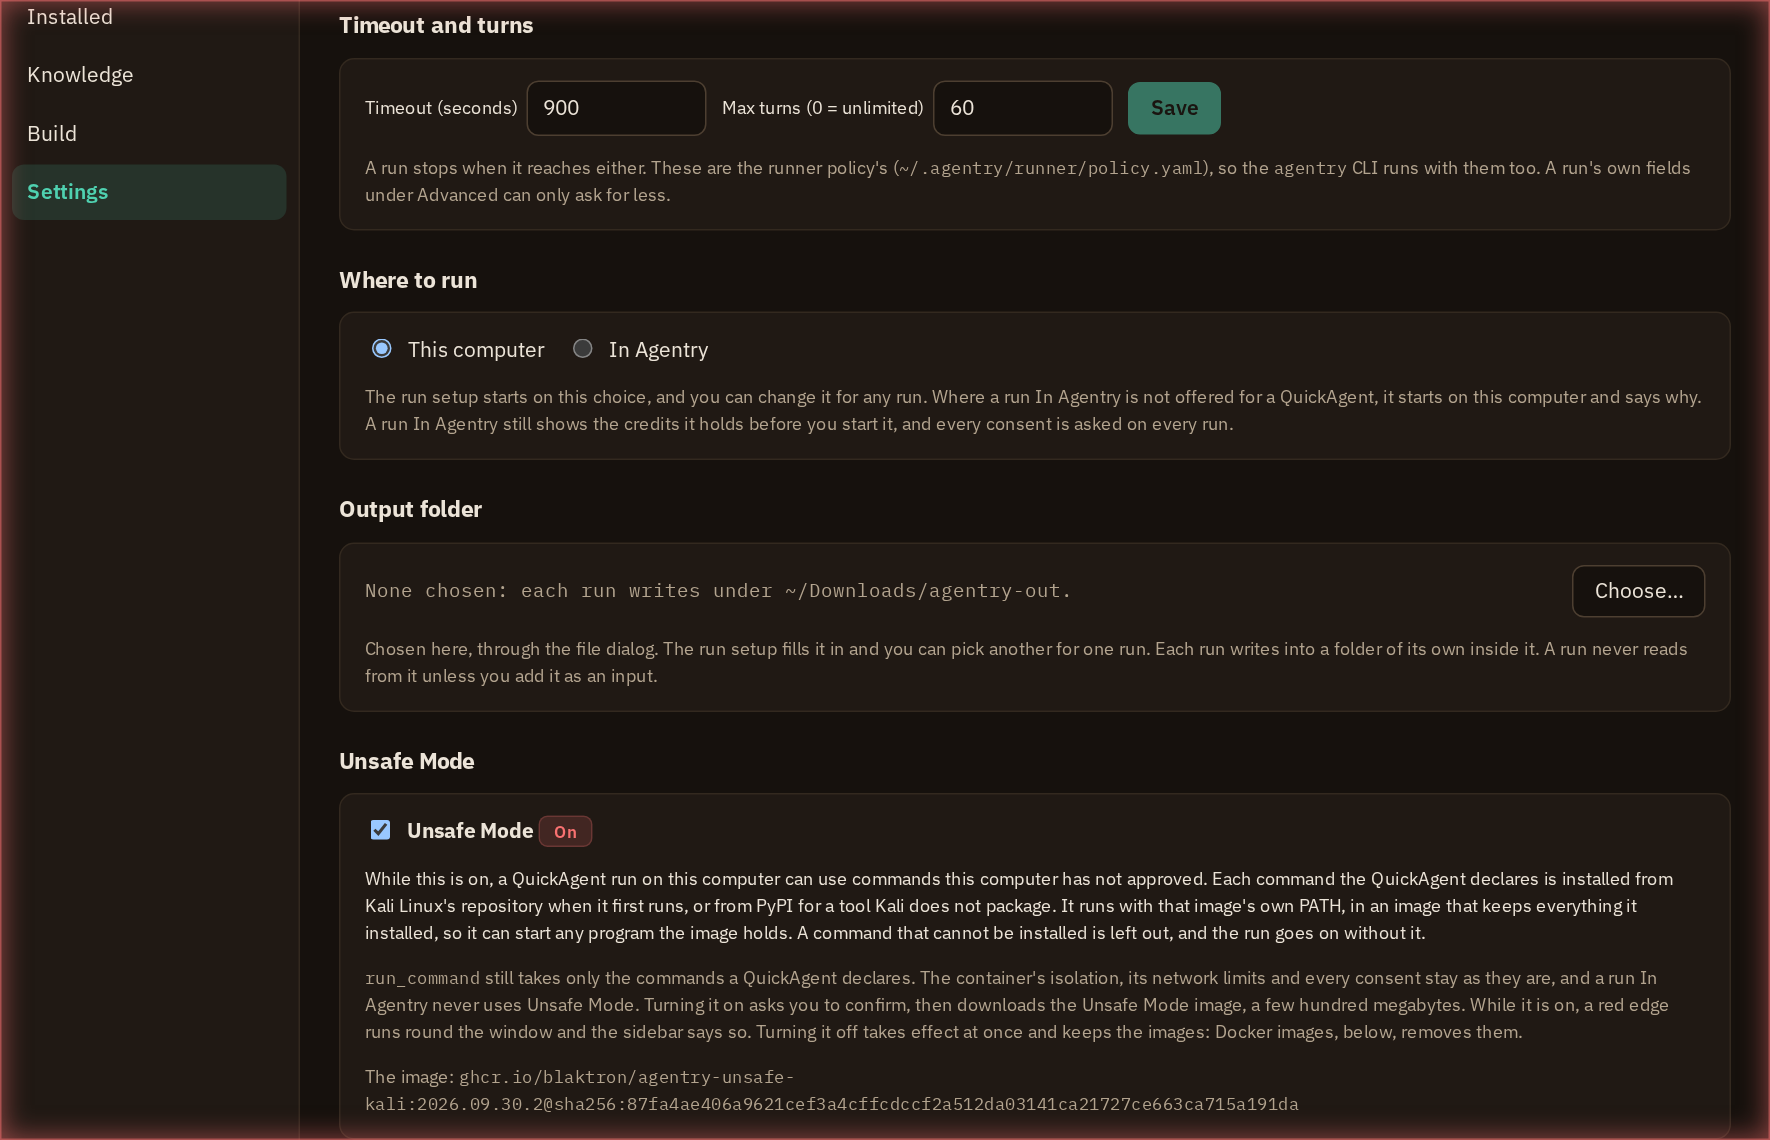
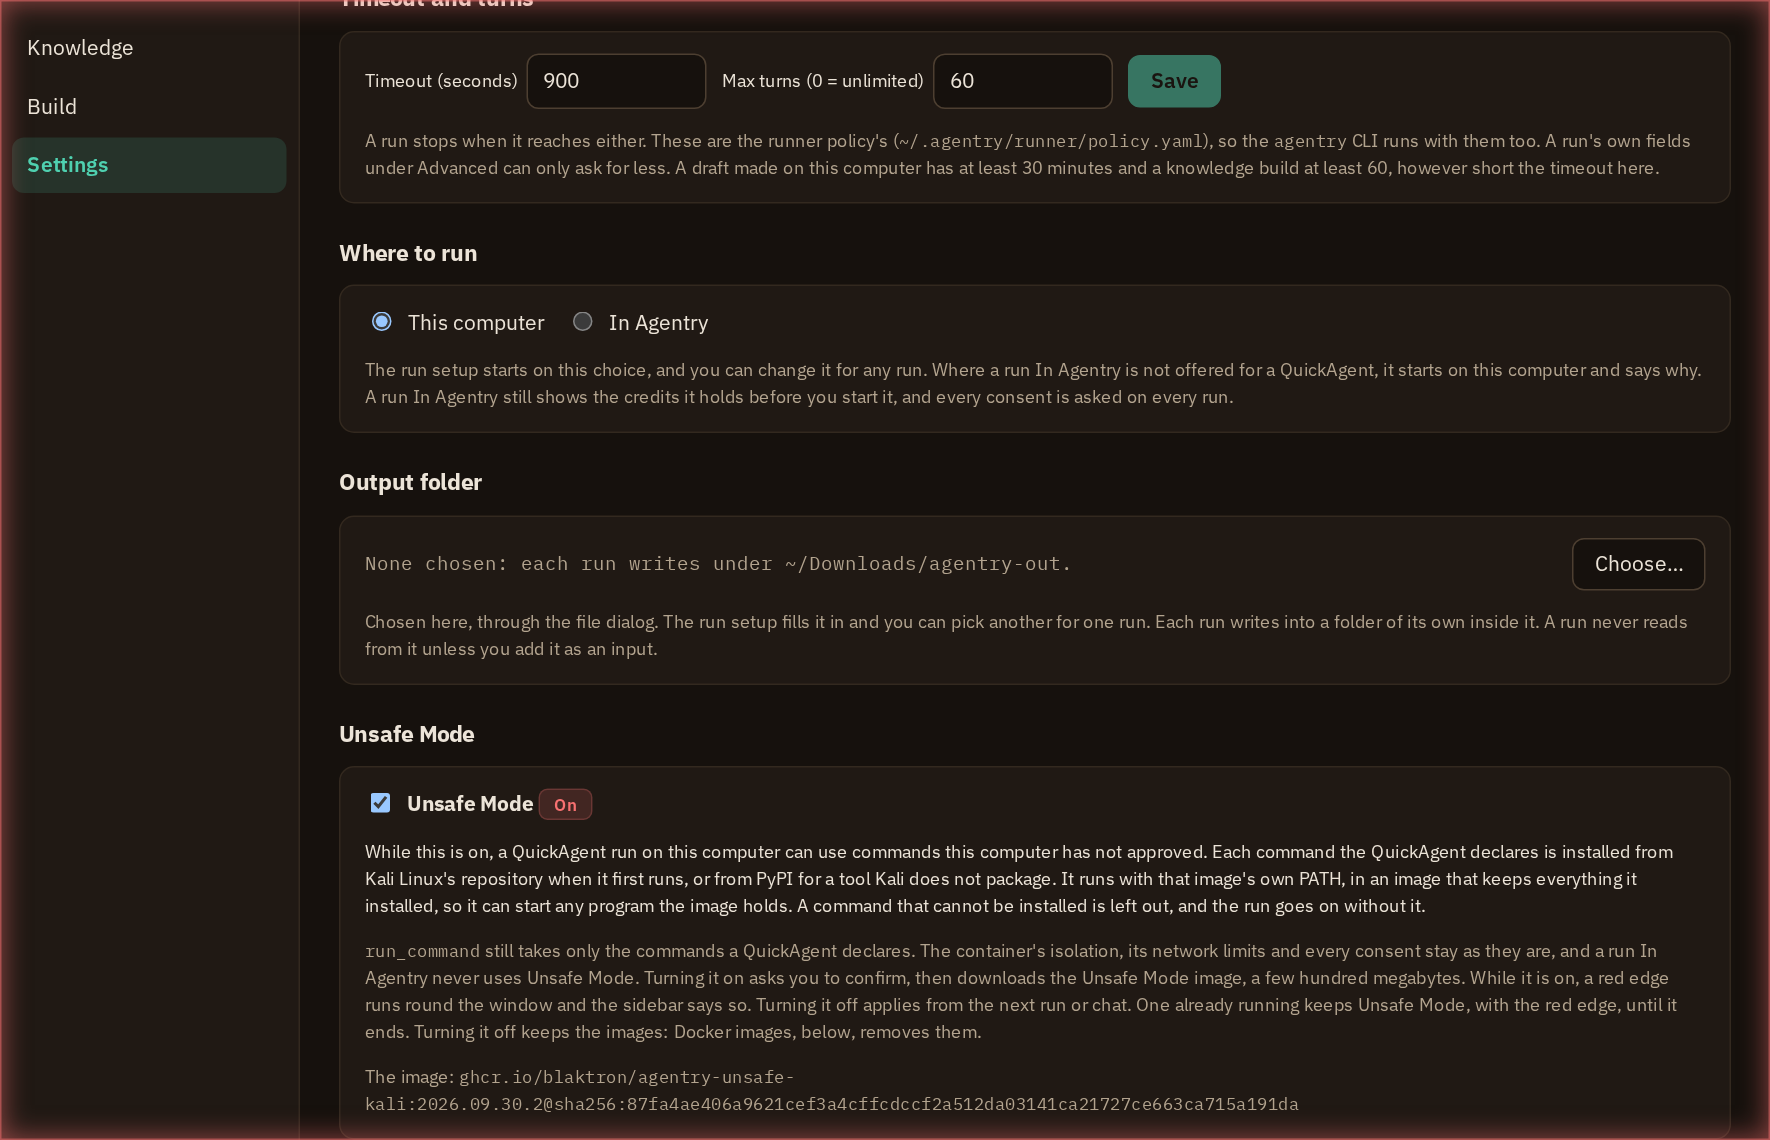
feat(unsafe): the red edge and the badge stay while a run or chat compiled in Unsafe Mode is live
Turning Unsafe Mode off took the red edge and the sidebar badge away at
once, but a run or chat reads the switch once, when it starts, and keeps
its Unsafe Mode exec image and PATH until it ends: a chat can be live for
hours after the window stopped saying so. The operator chose (2026-09-30,
the first of #479's three options) that the edge and the badge stay while
any run or chat compiled in Unsafe Mode is live, and go when it ends.

- internal/run: Request.UnsafeCompiled, called by prepare once the plan is
  known to be compiled in Unsafe Mode. A run the switch was on for whose
  plan Unsafe Mode did not change (no declared commands) never calls it.
- RunAgent and StartSession pass a hook that marks the live run unsafe and
  emits runner:unsafe-live true; endRun emits false when that run ends.
  RunAPI.UnsafeLive answers the same for the shell's slow poll.
- The shell draws the edge and the badge while the switch is on or such a
  run is live; the badge reads "Unsafe Mode: running" when only the run
  holds it. Run defaults says turning it off applies from the next run or
  chat, and that one already running keeps Unsafe Mode, with the edge.
- Harness state #unsafe-running (settings-unsafe-running in shots.mjs,
  which now takes the expected badge text per state).

Turning it off is still immediate for the next run, with no dialog.
Register: D-050's addendum (agentry-notes).

Closes #479

diff --git a/frontend/src/App.tsx b/frontend/src/App.tsx
@@ -3,6 +3,8 @@ import * as SettingsAPI from "../wailsjs/go/main/SettingsAPI";
 import { AppVersion } from "../wailsjs/go/main/App";
 import { DismissSelfUpdate, SelfUpdateStatus } from "../wailsjs/go/main/SelfUpdateAPI";
 import { UpdatesStatus } from "../wailsjs/go/main/InstallAPI";
+import { UnsafeLive } from "../wailsjs/go/main/RunAPI";
+import { EventsOn } from "../wailsjs/runtime/runtime";
 import { main } from "../wailsjs/go/models";
 import Browse from "./pages/Browse";
 import AgentPage from "./pages/AgentPage";
@@ -72,6 +74,11 @@ export default function App() {
   // trip), and never persisted — the next launch starts clean, and D-019's
   // flag keeps the wizard closed.
   const [setupMissing, setSetupMissing] = useState<string[] | null>(null);
+  // A run or chat compiled in Unsafe Mode that is still live on this computer
+  // (agentry-desktop#479): turning the switch off changes the next run, not
+  // this one, so the edge and the badge stay until Go says it has ended.
+  const [unsafeLive, setUnsafeLive] = useState(false);
+  useEffect(() => EventsOn("runner:unsafe-live", (live: boolean) => setUnsafeLive(live)), []);
 
   const refreshSettings = useCallback(async () => {
     const s = await SettingsAPI.Get();
@@ -110,6 +117,7 @@ export default function App() {
       // The settings file too: the red edge and the badge follow the Unsafe
       // Mode switch Go reads, which another window of this app can change.
       refreshSettings().catch(() => {});
+      UnsafeLive().then(setUnsafeLive).catch(() => {});
     };
     read();
     const t = setInterval(read, 60_000);
@@ -130,6 +138,7 @@ export default function App() {
   }, [refreshSettings]);
 
   const nav = (r: Route) => setRoute(r);
+  const unsafeShown = !!settings?.unsafeMode || unsafeLive;
 
   return (
     <CornerHost.Provider value={corner}>
@@ -141,7 +150,9 @@ export default function App() {
           <SidebarNav page={route.page} onNav={(page) => nav({ page } as Route)} installedUpdates={installedUpdates} />
           <div className="foot">
             {/* Unsafe Mode in words, beside the red edge below (D-050). */}
-            {settings?.unsafeMode && <UnsafeBadge onOpen={() => setRoute({ page: "settings", ...SETTINGS_FOR.unsafeMode })} />}
+            {unsafeShown && (
+              <UnsafeBadge running={!settings?.unsafeMode} onOpen={() => setRoute({ page: "settings", ...SETTINGS_FOR.unsafeMode })} />
+            )}
             {version && <div>v{version}</div>}
             {newer?.available && !newer.dismissed && (
               <div className="update-line">
@@ -291,7 +302,7 @@ export default function App() {
           />
         )}
         <div className="corner-cards" ref={setCorner} />
-        {settings?.unsafeMode && <UnsafeGlow />}
+        {unsafeShown && <UnsafeGlow />}
       </div>
     </CornerHost.Provider>
   );

diff --git a/frontend/harness/pages.tsx b/frontend/harness/pages.tsx
@@ -260,8 +260,10 @@ const validateResult = {
 // Unsafe Mode (agentry-desktop#418): #unsafe-on is the switch on, with the
 // red edge round the window and the sidebar's badge on every page;
 // #unsafe-pulling answers the switch's click as the Go host does after the
-// native Yes, with the image's pull under way.
+// native Yes, with the image's pull under way; #unsafe-running is the switch
+// off while a run compiled in Unsafe Mode is still live (agentry-desktop#479).
 const unsafeOn = window.location.hash === "#unsafe-on";
+const unsafeRunning = window.location.hash === "#unsafe-running";
 const unsafePulling = window.location.hash === "#unsafe-pulling";
 const UNSAFE_IMAGE = "ghcr.io/blaktron/agentry-unsafe-kali:2026.09.30.2@sha256:87fa4ae406a9621cef3a4cffcdccf2a512da03141ca21727ce663ca715a191da";
 let runDefaultsView = { timeoutSeconds: 900, maxTurns: 60, policyPath: "~/.agentry/runner/policy.yaml", where: "here", outputDir: "", unsafeMode: unsafeOn, unsafeImage: UNSAFE_IMAGE };
@@ -410,6 +412,7 @@ g.go = { main: {
       }
       return (runDefaultsView = { ...runDefaultsView, unsafeMode: on });
     },
+    UnsafeLive: async () => unsafeRunning,
     UnsafeNotice: async () => ({ on: unsafeOn, line: unsafeOn ? "Unsafe Mode is on: every command this QuickAgent declares is installed from Kali Linux's repository or PyPI without asking this computer's approved list, and each runs with the image's own PATH, so it can start any program that image holds. run_command still takes only the declared commands. As resolved, it declares none." : "", unplaced: [] }),
     // Run defaults → Docker images (agentry-desktop#424). #images-none has
     // none, #images-nodocker a daemon that does not answer; otherwise
@@ -584,10 +587,10 @@ function Shell({ active, children }: { active: NavPage; children: React.ReactNod
       <div className="sidebar">
         <div className="brand"><Wordmark sub="Desktop" /></div>
         <SidebarNav page={active} installedUpdates={installedUpdates} />
-        <div className="foot">{unsafeOn && <UnsafeBadge />}<div>v0.1.0</div><div className="nowrap">secureagentry.net</div></div>
+        <div className="foot">{(unsafeOn || unsafeRunning) && <UnsafeBadge running={unsafeRunning} />}<div>v0.1.0</div><div className="nowrap">secureagentry.net</div></div>
       </div>
       <div className="content">{children}</div>
-      {unsafeOn && <UnsafeGlow />}
+      {(unsafeOn || unsafeRunning) && <UnsafeGlow />}
     </div>
   );
 }

diff --git a/frontend/src/unsafe.tsx b/frontend/src/unsafe.tsx
@@ -5,7 +5,9 @@
 // design harness, so the harness shows the chrome the app has.
 //
 // Neither decides anything: the switch lives in desktop.yaml, which only Go
-// writes after a native confirmation (D-030), and a run reads it there.
+// writes after a native confirmation (D-030), and a run reads it there. Both
+// also stay while a run or chat compiled in Unsafe Mode is live after the
+// switch went off (agentry-desktop#479): Go says when it ends.
 
 /** The red edge. One fixed layer over everything the page draws, its own
  *  dialogs included, that takes no clicks (style.css .unsafe-glow). */
@@ -13,16 +15,22 @@ export function UnsafeGlow() {
   return <div className="unsafe-glow" aria-hidden="true" />;
 }
 
-/** The sidebar's badge. A button when it can open Run defaults. */
-export function UnsafeBadge({ onOpen }: { onOpen?: () => void }) {
+/** The sidebar's badge. A button when it can open Run defaults. running:
+ *  the switch is off, and a run or chat started while it was on is still
+ *  live in Unsafe Mode. */
+export function UnsafeBadge({ onOpen, running }: { onOpen?: () => void; running?: boolean }) {
   return (
     <button
       type="button"
       className="badge bad unsafe-badge"
-      title="Unsafe Mode is on: a run on this computer can use commands this computer has not approved. Run defaults has the switch."
+      title={
+        running
+          ? "Unsafe Mode is off for the next run, but the run or chat that started while it was on keeps it until it ends. Run defaults has the switch."
+          : "Unsafe Mode is on: a run on this computer can use commands this computer has not approved. Run defaults has the switch."
+      }
       onClick={onOpen}
     >
-      Unsafe Mode
+      {running ? "Unsafe Mode: running" : "Unsafe Mode"}
     </button>
   );
 }

diff --git a/frontend/src/pages/Settings.tsx b/frontend/src/pages/Settings.tsx
@@ -467,8 +467,9 @@ function RunDefaultsSettings({ onChanged }: { onChanged: () => Promise<unknown> 
                 <span className="mono">run_command</span> still takes only the commands a QuickAgent declares. The
                 container&apos;s isolation, its network limits and every consent stay as they are, and a run In Agentry never
                 uses Unsafe Mode. Turning it on asks you to confirm, then downloads the Unsafe Mode image, a few hundred
-                megabytes. While it is on, a red edge runs round the window and the sidebar says so. Turning it off takes
-                effect at once and keeps the images: Docker images, below, removes them.
+                megabytes. While it is on, a red edge runs round the window and the sidebar says so. Turning it off applies
+                from the next run or chat. One already running keeps Unsafe Mode, with the red edge, until it ends. Turning
+                it off keeps the images: Docker images, below, removes them.
               </p>
               {defaults.unsafeImage && (
                 <p className="muted small" style={{ marginBottom: 0 }}>

diff --git a/frontend/wailsjs/go/main/RunAPI.js b/frontend/wailsjs/go/main/RunAPI.js
@@ -182,6 +182,10 @@ export function TestJevKey() {
   return window['go']['main']['RunAPI']['TestJevKey']();
 }
 
+export function UnsafeLive() {
+  return window['go']['main']['RunAPI']['UnsafeLive']();
+}
+
 export function UnsafeNotice(arg1, arg2) {
   return window['go']['main']['RunAPI']['UnsafeNotice'](arg1, arg2);
 }

diff --git a/frontend/wailsjs/go/main/RunAPI.d.ts b/frontend/wailsjs/go/main/RunAPI.d.ts
@@ -93,4 +93,6 @@ export function StoreModelKey(arg1:string,arg2:string):Promise<main.SetupStatusV
 
 export function TestJevKey():Promise<main.JevKeyTestView>;
 
+export function UnsafeLive():Promise<boolean>;
+
 export function UnsafeNotice(arg1:string,arg2:string):Promise<main.UnsafeNoticeView>;

diff --git a/services_unsafe_test.go b/services_unsafe_test.go
@@ -17,6 +17,7 @@ import (
 
 	"github.com/blaktron/agentry-cli/pkg/configdir"
 	"github.com/blaktron/agentry-cli/pkg/runner/policy"
+	"github.com/blaktron/agentry-cli/pkg/runner/session"
 
 	"github.com/blaktron/agentry-desktop/internal/hostedrun"
 	"github.com/blaktron/agentry-desktop/internal/run"
@@ -503,5 +504,114 @@ func TestARunInAgentryCarriesNothingOfUnsafeMode(t *testing.T) {
 		if f := rt.Field(i); strings.Contains(strings.ToLower(f.Name+f.Tag.Get("json")), "unsafe") {
 			t.Errorf("hostedrun.CreateRequest carries %s", f.Name)
 		}
+	}
+}
+
+// unsafeChat is a chat whose End is all a test needs: it ends at once.
+type unsafeChat struct{ events chan session.Event }
+
+func (c *unsafeChat) Ref() string                                    { return "acme/x@1.0.0" }
+func (c *unsafeChat) Events() <-chan session.Event                   { return c.events }
+func (c *unsafeChat) Send(context.Context, string) error             { return nil }
+func (c *unsafeChat) AddInput(context.Context, string) error         { return nil }
+func (c *unsafeChat) End(context.Context, bool) (*run.Result, error) { return &run.Result{}, nil }
+
+// liveEvents records every runner:unsafe-live the app emits.
+func liveEvents(t *testing.T) *[]bool {
+	t.Helper()
+	var got []bool
+	var mu sync.Mutex
+	old := emitEvent
+	emitEvent = func(_ *App, name string, data ...any) {
+		if name != eventUnsafeLive {
+			return
+		}
+		mu.Lock()
+		defer mu.Unlock()
+		got = append(got, data[0].(bool))
+	}
+	t.Cleanup(func() { emitEvent = old })
+	return &got
+}
+
+// agentry-desktop#479 (the operator's choice, 2026-09-30; D-050's
+// addendum): turning the switch off does not take the red edge and the
+// badge from a run or a chat compiled in Unsafe Mode while it is live.
+// They go when it ends. A run the switch was on for, whose plan Unsafe
+// Mode did not change (no declared commands), is not one.
+func TestTheEdgeStaysWhileARunCompiledInUnsafeModeIsLive(t *testing.T) {
+	u := newUnsafeApp(t)
+	u.answer = true
+	events := liveEvents(t)
+	switchOn(t)
+	var during []bool
+	compiledUnsafe := true
+	u.r.engineRun = func(_ context.Context, req run.Request, _ io.Writer) (*run.Result, error) {
+		if compiledUnsafe && req.UnsafeCompiled != nil {
+			req.UnsafeCompiled()
+		}
+		during = append(during, u.r.UnsafeLive())
+		// Mid-run, the person turns the switch off.
+		if _, err := u.r.SetUnsafeMode(false); err != nil {
+			t.Fatal(err)
+		}
+		during = append(during, u.r.UnsafeLive())
+		return &run.Result{Unsafe: compiledUnsafe}, nil
+	}
+	if _, err := u.r.RunAgent("https://r.example", "acme/x@1.0.0", "go", nil, "", nil, 0, 0, true, nil, false, false, nil); err != nil {
+		t.Fatal(err)
+	}
+	if !reflect.DeepEqual(during, []bool{true, true}) {
+		t.Fatalf("while the Unsafe Mode run was live, UnsafeLive read %v, want true before and after the switch went off", during)
+	}
+	if u.r.UnsafeLive() {
+		t.Fatal("UnsafeLive still true after the run ended")
+	}
+	if !reflect.DeepEqual(*events, []bool{true, false}) {
+		t.Fatalf("runner:unsafe-live events %v, want [true false]", *events)
+	}
+
+	// The switch on, but the plan not compiled in Unsafe Mode.
+	switchOn(t)
+	*events, during, compiledUnsafe = nil, nil, false
+	if _, err := u.r.RunAgent("https://r.example", "acme/x@1.0.0", "go", nil, "", nil, 0, 0, true, nil, false, false, nil); err != nil {
+		t.Fatal(err)
+	}
+	if !reflect.DeepEqual(during, []bool{false, false}) || len(*events) != 0 {
+		t.Fatalf("a run Unsafe Mode did not change: UnsafeLive %v, events %v", during, *events)
+	}
+}
+
+// The same for a chat, which can be live for hours: the edge stays from
+// its compile until EndSession.
+func TestTheEdgeStaysWhileAChatCompiledInUnsafeModeIsLive(t *testing.T) {
+	u := newUnsafeApp(t)
+	u.answer = true
+	events := liveEvents(t)
+	switchOn(t)
+	u.r.engineSession = func(_ context.Context, req run.Request, _ io.Writer) (localSession, error) {
+		if req.UnsafeCompiled != nil {
+			req.UnsafeCompiled()
+		}
+		return &unsafeChat{events: make(chan session.Event)}, nil
+	}
+	if _, err := u.r.StartSession("https://r.example", "acme/x@1.0.0", "", nil, "", nil, 0, -1, true, nil, false, false, nil); err != nil {
+		t.Fatal(err)
+	}
+	if _, err := u.r.SetUnsafeMode(false); err != nil {
+		t.Fatal(err)
+	}
+	if !u.r.UnsafeLive() {
+		t.Fatal("the chat compiled in Unsafe Mode lost the edge when the switch went off")
+	}
+	close(u.r.session.(*unsafeChat).events)
+	if _, err := u.r.EndSession(false); err != nil {
+		t.Fatal(err)
+	}
+	if u.r.UnsafeLive() {
+		t.Fatal("UnsafeLive still true after the chat ended")
+	}
+	if !reflect.DeepEqual(*events, []bool{true, false}) {
+		t.Fatalf("runner:unsafe-live events %v, want [true false]", *events)
 	}
 }

diff --git a/services_run.go b/services_run.go
@@ -33,7 +33,11 @@ const (
 	// eventUnsafeProgress carries the Unsafe Mode image's pull to the Run
 	// defaults card (services_unsafe.go).
 	eventUnsafeProgress = "runner:unsafe-progress"
-	eventRunLog         = "runner:run-log"
+	// eventUnsafeLive says a run or chat compiled in Unsafe Mode has become
+	// live (true) or has ended (false): the shell keeps the red edge and the
+	// badge up while one is, switch or no switch (services_unsafe.go).
+	eventUnsafeLive = "runner:unsafe-live"
+	eventRunLog     = "runner:run-log"
 	// eventSessionEvent carries an interactive session's events (JSON
 	// SessionEventView) to the chat view; runner:run-log stays autonomous.
 	eventSessionEvent = "runner:session-event"
@@ -186,6 +190,7 @@ func (r *RunAPI) StartSession(reg, ref, task string, inputPaths []string, outDir
 		Intake:             intakeAnswers,
 		PathPicked:         r.app.requirePicked,
 		Unsafe:             unsafe,
+		UnsafeCompiled:     func() { r.markUnsafeLive(live) },
 	}, logw)
 	logw.Flush()
 	if err != nil {
@@ -791,6 +796,7 @@ func (r *RunAPI) RunAgent(reg, ref, task string, inputPaths []string, outDir str
 		Intake:             intakeAnswers,
 		PathPicked:         r.app.requirePicked,
 		Unsafe:             unsafe,
+		UnsafeCompiled:     func() { r.markUnsafeLive(live) },
 	}, logw)
 	if err != nil {
 		return nil, err

diff --git a/services_unsafe.go b/services_unsafe.go
@@ -81,6 +81,30 @@ func (r *RunAPI) SetUnsafeMode(on bool) (*RunDefaultsView, error) {
 	return runDefaultsView()
 }
 
+// markUnsafeLive records that the live run's plan was compiled in Unsafe
+// Mode and tells the shell, which keeps the red edge and the badge up until
+// endRun says the run is over (agentry-desktop#479, D-050's addendum).
+// Turning the switch off changes the next run, never this one, so the
+// window must not stop saying so while this one is live.
+func (r *RunAPI) markUnsafeLive(l *liveRun) {
+	r.liveMu.Lock()
+	was := l.unsafe
+	l.unsafe = true
+	r.liveMu.Unlock()
+	if !was {
+		emitEvent(r.app, eventUnsafeLive, true)
+	}
+}
+
+// UnsafeLive says whether a run or chat compiled in Unsafe Mode is live on
+// this computer now: the shell draws the red edge and the badge while it is
+// or the switch is on. A run In Agentry is never one (D7).
+func (r *RunAPI) UnsafeLive() bool {
+	r.liveMu.Lock()
+	defer r.liveMu.Unlock()
+	return r.live != nil && r.live.unsafe
+}
+
 // UnsafeNoticeView is what Unsafe Mode means for one QuickAgent's run on
 // this computer, for the run setup's Review step.
 type UnsafeNoticeView struct {

diff --git a/internal/run/run.go b/internal/run/run.go
@@ -388,6 +388,12 @@ type Request struct {
 	// image. False is the default posture, under which a command the
 	// catalogue does not carry refuses the run as it always has.
 	Unsafe bool
+	// UnsafeCompiled, when set, is called once the run's plan is known to
+	// be compiled in Unsafe Mode, before anything of it starts: the desktop
+	// keeps the red edge up from here until the run or chat ends, whatever
+	// the switch says meanwhile (agentry-desktop#479). A run the switch was
+	// on for whose plan Unsafe Mode did not change never calls it.
+	UnsafeCompiled func()
 }
 
 // Result is the envelope-derived outcome. It is populated on failure too:
@@ -540,6 +546,9 @@ func prepare(ctx context.Context, req Request, logw io.Writer, mode manifest.Mod
 		// The plan's own exec line, which the receipt carries: what Unsafe
 		// Mode placed, what it could not, and what is not enforced.
 		_, _ = fmt.Fprintln(logw, plan.Enforcement["exec"])
+		if req.UnsafeCompiled != nil {
+			req.UnsafeCompiled()
+		}
 	}
 	if vulnLine != "" {
 		if plan.Enforcement == nil {

diff --git a/services_quit.go b/services_quit.go
@@ -58,6 +58,9 @@ type liveRun struct {
 	// ending is set by the endRun call that ends the run, under liveMu: a
 	// second call returns at once.
 	ending bool
+	// unsafe is set, under liveMu, once the run's plan is compiled in Unsafe
+	// Mode (markUnsafeLive); endRun says so when it ends (agentry-desktop#479).
+	unsafe bool
 	// release removes the opened copies of the knowledge packs attached to
 	// the run (nil when none was). endRun calls it before closing done,
 	// which quitting waits for, up to quitWait: a run that ends in that
@@ -128,7 +131,11 @@ func (r *RunAPI) endRun(l *liveRun) {
 			r.live = nil
 		}
 		close(l.done)
+		unsafe := l.unsafe
 		r.liveMu.Unlock()
+		if unsafe {
+			emitEvent(r.app, eventUnsafeLive, false)
+		}
 	}()
 	// Settled outside the lock, which the close dialog and the Stop buttons
 	// read: deleting a file Docker Desktop still holds can take seconds on
